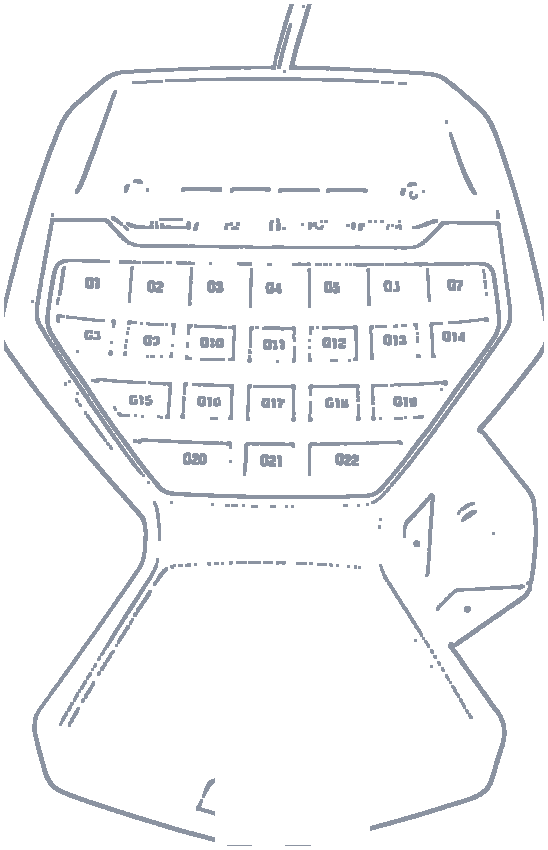
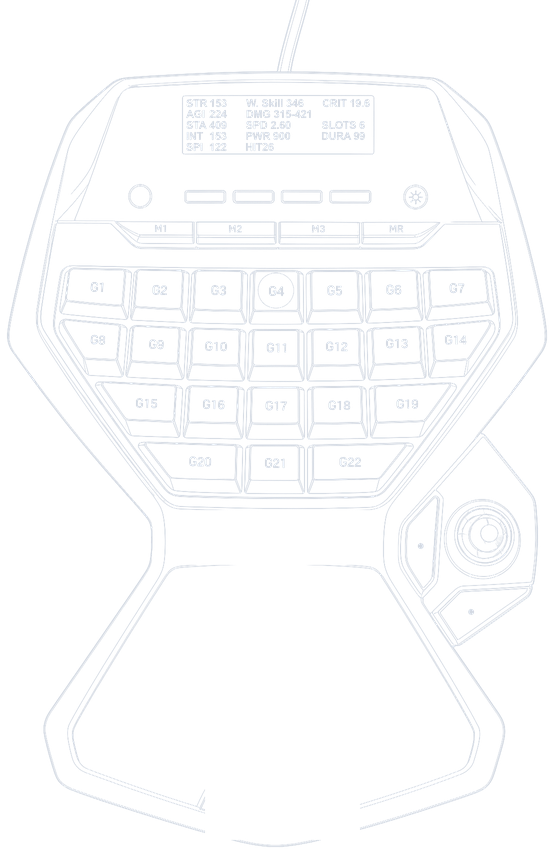
feat: 模式図を提供された線画イラストへ全面差し替える
オーナー提供の線画（docs/ui-assets・gitignore 済み）を透過化・余白クロップ・縮小して
asset 化し、G13・G600 側面・G600 上面の3面すべてを線画背景＋透過ボタンにする
（上面もベクター描画から置き換え）。Logitech ロゴ・ロゴ書体は asset から除去。
ボタン位置は各線画のキー位置へ再調整し、実機表示で両タブを目視検品。

focused test: Desktop 77 green。

diff --git a/src/OpenLogicool.Desktop/InputStudioFigures.cs b/src/OpenLogicool.Desktop/InputStudioFigures.cs
@@ -22,121 +22,100 @@ public static class InputStudioFigures
 
     public static UIElement BuildG13(IReadOnlyDictionary<string, FigureBinding> bindings, Action<string> onAssign)
     {
-        // 実機写真から生成した線画（548x850）。ボタンは写真上のキー位置へ透過で重ねる
-        // （キーの G 番号は線画自体に写っているため、ボタン面には割当名だけを出す）。
-        var canvas = new Canvas { Width = 548, Height = 850 };
-        Place(canvas, LineArtImage("g13-lineart.png", 548, 850), 0, 0);
+        // 線画（554x854・オーナー提供の生成画像を透過化）。ボタンは絵のキー位置へ透過で重ねる
+        // （キーの G 番号は線画に描かれているため、ボタン面には割当名だけを出す）。
+        var canvas = new Canvas { Width = 554, Height = 854 };
+        Place(canvas, LineArtImage("g13-lineart.png", 554, 854), 0, 0);
 
         // M 列（M1〜M3 は層切替・MR は割当可能）
-        Place(canvas, ModeKey("M1", "層切替（いつも）"), 136, 212);
-        Place(canvas, ModeKey("M2", "層切替（M2）"), 200, 212);
-        Place(canvas, ModeKey("M3", "層切替（M3）"), 264, 212);
-        Place(canvas, OverlayKey("MR", bindings, () => onAssign("MR"), width: 52, height: 24), 326, 212);
+        Place(canvas, ModeKey("M1", "層切替（いつも）"), 122, 219);
+        Place(canvas, ModeKey("M2", "層切替（M2）"), 200, 219);
+        Place(canvas, ModeKey("M3", "層切替（M3）"), 283, 219);
+        Place(canvas, OverlayKey("MR", bindings, () => onAssign("MR"), width: 62, height: 20), 362, 219);
 
-        // キー面 4 行（写真上の位置）
-        string[] row1 = ["G1", "G2", "G3", "G4", "G5", "G6", "G7"];
-        string[] row2 = ["G8", "G9", "G10", "G11", "G12", "G13", "G14"];
-        for (var i = 0; i < 7; i++)
+        (string ControlId, double X, double Y)[] keys =
+        [
+            ("G1", 97, 289), ("G2", 160, 289), ("G3", 220, 290), ("G4", 278, 291), ("G5", 335, 290), ("G6", 392, 289), ("G7", 458, 288),
+            ("G8", 97, 344), ("G9", 156, 345), ("G10", 216, 346), ("G11", 276, 347), ("G12", 335, 346), ("G13", 395, 345), ("G14", 456, 343),
+            ("G15", 146, 404), ("G16", 212, 405), ("G17", 276, 406), ("G18", 337, 405), ("G19", 407, 403),
+            ("G20", 200, 462), ("G21", 273, 463), ("G22", 350, 462),
+        ];
+        foreach (var (controlId, x, y) in keys)
         {
-            var c1 = row1[i];
-            var c2 = row2[i];
-            Place(canvas, OverlayKey(c1, bindings, () => onAssign(c1), width: 56, height: 40), 66 + i * 60, 265);
-            Place(canvas, OverlayKey(c2, bindings, () => onAssign(c2), width: 56, height: 40), 66 + i * 60, 317);
-        }
-
-        string[] row3 = ["G15", "G16", "G17", "G18", "G19"];
-        for (var i = 0; i < 5; i++)
-        {
-            var c3 = row3[i];
-            Place(canvas, OverlayKey(c3, bindings, () => onAssign(c3), width: 56, height: 40), 167 + i * 58, 380);
-        }
-
-        string[] row4 = ["G20", "G21", "G22"];
-        for (var i = 0; i < 3; i++)
-        {
-            var c4 = row4[i];
-            Place(canvas, OverlayKey(c4, bindings, () => onAssign(c4), width: 74, height: 40), 161 + i * 73, 439);
+            Place(canvas, OverlayKey(controlId, bindings, () => onAssign(controlId), width: 54, height: 40), x - 27, y - 20);
         }
 
         // スティック押込み（右のポッド）
-        var stick = OverlayKey("STICK_PRESS", bindings, () => onAssign("STICK_PRESS"), width: 74, height: 74, label: "スティック押込み");
-        stick.Style = Theme.CreateFlatButtonStyle(37);
-        Place(canvas, stick, 424, 516);
+        var stick = OverlayKey("STICK_PRESS", bindings, () => onAssign("STICK_PRESS"), width: 76, height: 76, label: "スティック押込み");
+        stick.Style = Theme.CreateFlatButtonStyle(38);
+        Place(canvas, stick, 442, 499);
 
         return WrapFigure(canvas, maxHeight: 470);
     }
 
-    // ─────────────────────────── G600（実機写真: 側面=親指 12 ボタンの傾き・上面=ホイール/G7/G8/G-Shift） ───────────────────────────
+    // ─────────────────────────── G600（側面=親指 12 ボタン・上面=ホイール/G7/G8/G-Shift） ───────────────────────────
 
     public static UIElement BuildG600(IReadOnlyDictionary<string, FigureBinding> bindings, Action<string> onAssign, bool shiftIsButton)
     {
         var board = new StackPanel { Orientation = Orientation.Horizontal };
 
-        // ── 側面（親指側）: 実機写真から生成した線画（719x315）に透過ボタンを重ねる ──
-        var side = new Canvas { Width = 719, Height = 315 };
-        Place(side, LineArtImage("g600-side-lineart.png", 719, 315), 0, 0);
+        // ── 側面（親指側）: 線画（727x262）に透過ボタンを重ねる ──
+        var side = new Canvas { Width = 727, Height = 292 };
+        Place(side, LineArtImage("g600-side-lineart.png", 727, 262), 0, 22);
         Place(side, new TextBlock
         {
             Text = "親指側（左＝手首側）",
             Foreground = Theme.Muted,
             FontSize = 11,
-        }, 20, 8);
+        }, 16, 0);
 
         (string ControlId, double X, double Y)[] sideKeys =
         [
-            ("G11", 305, 116), ("G14", 361, 108), ("G17", 418, 101), ("G20", 465, 96),
-            ("G10", 286, 169), ("G13", 341, 161), ("G16", 397, 152), ("G19", 450, 144),
-            ("G9", 266, 218), ("G12", 320, 211), ("G15", 376, 203), ("G18", 428, 195),
+            ("G11", 333, 97), ("G14", 382, 79), ("G17", 437, 73), ("G20", 492, 72),
+            ("G10", 333, 139), ("G13", 392, 131), ("G16", 445, 124), ("G19", 501, 119),
+            ("G9", 343, 186), ("G12", 400, 184), ("G15", 453, 180), ("G18", 508, 171),
         ];
         foreach (var (controlId, x, y) in sideKeys)
         {
             var nub = controlId is "G13" or "G16";
-            var key = OverlayKey(controlId, bindings, () => onAssign(controlId), width: 50, height: 44,
+            var key = OverlayKey(controlId, bindings, () => onAssign(controlId), width: 46, height: 40,
                 toolTipSuffix: nub ? "（親指のホーム位置）" : string.Empty);
-            key.RenderTransform = new RotateTransform(-10);
-            Place(side, key, x - 25, y - 22);
+            key.RenderTransform = new RotateTransform(-5);
+            Place(side, key, x - 23, y - 20 + 22);
         }
 
-        board.Children.Add(WrapFigure(side, maxHeight: 220));
+        board.Children.Add(WrapFigure(side, maxHeight: 196));
 
-        // ── 上面: 左右クリック・ホイール（押込み＋チルト）・G8/G7・G-Shift（右側面の細長ボタン） ──
-        var top = new Canvas { Width = 312, Height = 430 };
-        top.Children.Add(OutlinePath(
-            "M 140,14 C 82,14 52,54 48,140 C 46,240 66,350 100,392 C 120,412 160,412 180,392 C 214,350 234,240 232,140 C 228,54 198,14 140,14 Z",
-            Theme.Panel));
-        // 左右ボタンの割れ目
-        top.Children.Add(LinePath("M 140,12 L 140,120"));
-        // 右側面の G-Shift 溝（写真右側のスリット）
-        top.Children.Add(LinePath("M 232,120 C 246,180 244,240 226,300"));
+        // ── 上面: 線画（283x466）に左右クリック・ホイール・チルト・G8/G7・G-Shift を重ねる ──
+        var top = new Canvas { Width = 300, Height = 466 };
+        Place(top, LineArtImage("g600-top-lineart.png", 283, 466), 0, 0);
 
-        var g1 = Key("G1\n左クリック", "G1", bindings, false, () => onAssign("G1"), width: 72, height: 80);
-        Place(top, g1, 58, 34);
-        var g2 = Key("G2\n右クリック", "G2", bindings, false, () => onAssign("G2"), width: 72, height: 80);
-        Place(top, g2, 150, 34);
+        Place(top, OverlayKey("G1", bindings, () => onAssign("G1"), width: 64, height: 96, label: "G1（左クリック）"), 50, 62);
+        Place(top, OverlayKey("G2", bindings, () => onAssign("G2"), width: 64, height: 96, label: "G2（右クリック）"), 158, 62);
 
-        // ホイール＝G3 押込み・左右チルト＝G4/G5
-        Place(top, Key("G4\n←左チルト", "G4", bindings, false, () => onAssign("G4"), width: 46, height: 40), 60, 122);
-        var wheel = Key("G3\nホイール\n押込み", "G3", bindings, false, () => onAssign("G3"), width: 44, height: 66);
+        // ホイール＝G3 押込み・左右チルト＝G4/G5（絵の ‹ › の位置）
+        var wheel = OverlayKey("G3", bindings, () => onAssign("G3"), width: 40, height: 72, label: "G3（ホイール押込み）");
         wheel.Style = Theme.CreateFlatButtonStyle(18);
-        Place(top, wheel, 118, 110);
-        Place(top, Key("G5\n右チルト→", "G5", bindings, false, () => onAssign("G5"), width: 46, height: 40), 174, 122);
+        Place(top, wheel, 117, 92);
+        Place(top, OverlayKey("G4", bindings, () => onAssign("G4"), width: 24, height: 32, label: "G4（左チルト）"), 90, 112);
+        Place(top, OverlayKey("G5", bindings, () => onAssign("G5"), width: 24, height: 32, label: "G5（右チルト）"), 160, 112);
 
-        Place(top, Key("G8", "G8", bindings, false, () => onAssign("G8"), width: 44, height: 26), 118, 186);
-        Place(top, Key("G7", "G7", bindings, false, () => onAssign("G7"), width: 44, height: 26), 118, 218);
+        Place(top, OverlayKey("G8", bindings, () => onAssign("G8"), width: 40, height: 28, label: "G8"), 117, 175);
+        Place(top, OverlayKey("G7", bindings, () => onAssign("G7"), width: 40, height: 28, label: "G7"), 117, 205);
 
-        // G-Shift（G6）: 右側面の細長ボタン。層切替のままなら ModeKey、ボタン化済みなら割当可能
+        // G-Shift（G6）: 右側面の細長ボタン（絵の右端の溝）。層切替のままなら ModeKey、ボタン化済みなら割当可能
         if (shiftIsButton)
         {
-            var g6 = Key("G6 G-Shift", "G6", bindings, false, () => onAssign("G6"), width: 88, height: 44);
-            Place(top, g6, 206, 316);
+            var g6 = Key("G6 G-Shift", "G6", bindings, false, () => onAssign("G6"), width: 88, height: 40);
+            Place(top, g6, 205, 330);
         }
         else
         {
-            Place(top, ModeKey("G-Shift", "層切替（G-Shift を押している間）。ボタンとして使う切替は上の配置チップの右", wide: true), 216, 322);
+            Place(top, ModeKey("G-Shift", "層切替（G-Shift を押している間）。ボタンとして使う切替は上の配置チップの右", wide: true), 210, 336);
         }
 
-        // 溝と G6 ボタンをつなぐ引出線
-        top.Children.Add(LinePath("M 228,290 L 250,316"));
+        // 右端の溝と G6 をつなぐ引出線
+        top.Children.Add(LinePath("M 232,300 L 248,330"));
 
         board.Children.Add(WrapFigure(top, maxHeight: 300));
         return board;
